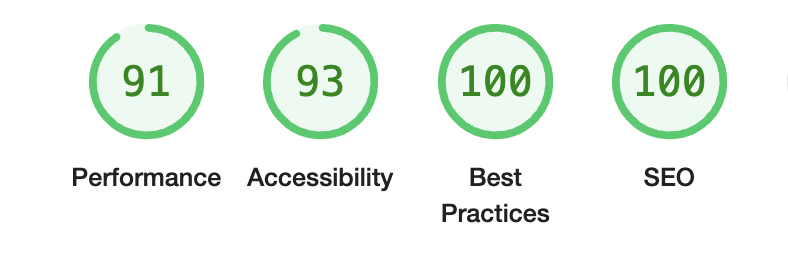
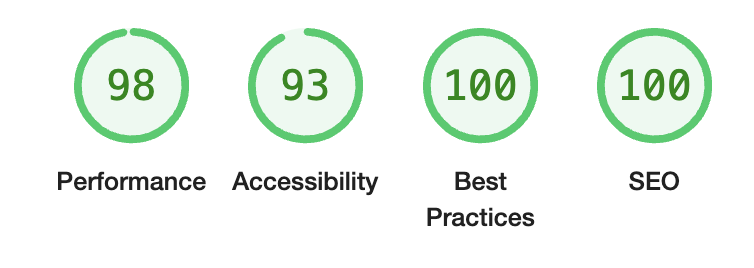
Finetuning mobile image size et format

diff --git a/assets/css/style.css b/assets/css/style.css
@@ -647,11 +647,11 @@ input:focus {
         }
 
         #cover-image {
-            background-image: url("../images/coverpeople-mobile.jpg");
+            background-image: url("../images/coverpeople-mobile.webp");
         }
 
         #how-easy {
-            background-image: url("../images/youngworkers-mobile.jpg");
+            background-image: url("../images/youngworkers-mobile.webp");
         }
     }
 }

diff --git a/README.md b/README.md
@@ -49,9 +49,9 @@ The service differs from headhunters in that it is much more cost-competitive, a
 
 ### Speed - Lighthouse
 
-Looking great ✅
+Desktop peformance : Looking great ✅
 
-<img src="assets/images/lighthousedesktop.png">
+<img style="width:250px" src="assets/images/lighthousedesktop.png">
 
 ### Debugging
 
